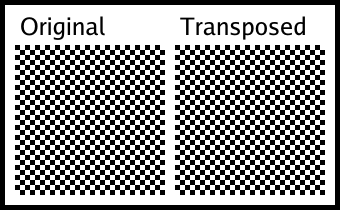
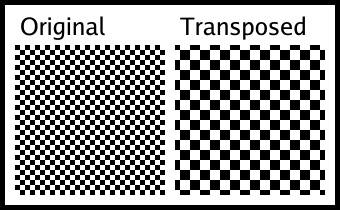
feat: update `transposed.png` by adjusting `NewSimpleZoom` and `NewTransposed` parameters in the bootstrap command.

Changed region(s): [[0.5, 0.2, 0.9706, 0.9429]]

diff --git a/cmd/bootstrap/main.go b/cmd/bootstrap/main.go
@@ -78,9 +78,9 @@ func CreatePatternList() []*PatternDemo {
 			GoUsageSample: "i := pattern.NewTransposed(pattern.NewDemoNull(), 10, 10)\n\tf, err := os.Create(\"transposed.png\")\n\tif err != nil {\n\t\tpanic(err)\n\t}\n\tdefer func() {\n\t\tif e := f.Close(); e != nil {\n\t\t\tpanic(e)\n\t\t}\n\t}()\n\tif err = png.Encode(f, i); err != nil {\n\t\tpanic(err)\n\t}",
 			Generator: func(b image.Rectangle) image.Image {
 				// Base: simple zoom of a checker (5x)
-				baseImg := pattern.NewSimpleZoom(pattern.NewDemoChecker(pattern.SetBounds(b)), 5, pattern.SetBounds(b))
+				baseImg := pattern.NewSimpleZoom(pattern.NewDemoChecker(pattern.SetBounds(b)), 10, pattern.SetBounds(b))
 				// Transposed
-				return pattern.NewTransposed(baseImg, 10, 10, pattern.SetBounds(b))
+				return pattern.NewTransposed(baseImg, 5, 5, pattern.SetBounds(b))
 			},
 			References: []LabelledGenerator{
 				{
